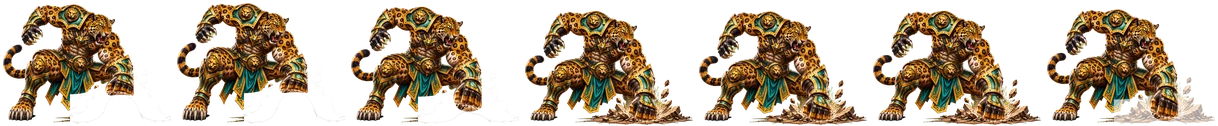
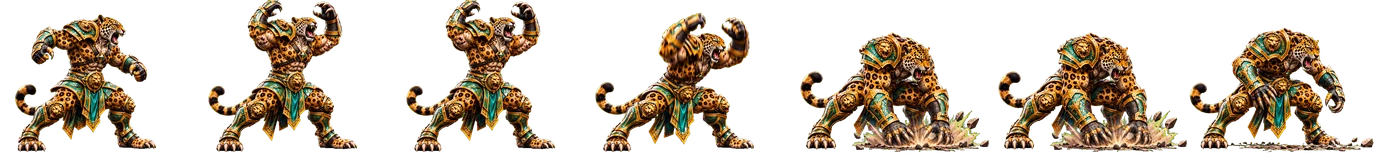
V2 preview 10.33: jaguar upgraded moves - all 15 fighters upgraded (not live)
Claude-Session: https://claude.ai/code/session_01Wp8cgZvzavvyA9CxcdgKRp

diff --git a/game/js/sprites-hd.js b/game/js/sprites-hd.js
@@ -1,2 +1,2 @@
 // High-detail fighter frames (frames-hd/), used on large/sharp screens. Same layout as SPRITES.
-const SPRITES_HD={"badger":{"s":2.0,"anims":{"idle":[16,363,425,20,211],"walk_forward":[8,301,413,70,205],"walk_back":[8,301,413,70,205],"run":[8,301,413,70,205],"block":[6,374,428,21,212],"attack_light":[8,423,419,103,208],"bite":[8,364,423,92,210],"claw_swipe":[6,423,419,103,208],"attack_heavy":[8,375,518,92,257],"uppercut":[8,423,419,103,208],"pounce":[8,364,423,92,210],"special_earth_slam":[7,375,518,92,257],"shadow_rampage":[10,423,419,103,208],"victory":[8,283,476,70,236],"jump":[7,370,409,96,203],"crouch":[4,370,409,96,203],"hit_light":[4,363,423,20,210],"hit_heavy":[6,363,423,20,210],"knockdown":[9,586,417,85,207],"knockdown_getup":[6,339,413,86,205],"defeat":[5,586,417,85,207]}},"crocodile":{"s":2.0,"anims":{"idle":[16,658,534,187,264],"walk_forward":[8,608,531,178,263],"walk_back":[8,608,531,178,263],"run":[8,608,531,178,263],"block":[6,617,527,168,261],"attack_light":[8,751,527,215,261],"bite":[8,682,533,187,264],"special_pounce":[6,751,527,215,261],"attack_heavy":[8,848,567,214,281],"uppercut":[7,848,567,214,281],"victory":[8,559,554,150,274],"jump":[7,794,476,233,235],"hit_light":[4,653,531,187,263],"hit_heavy":[6,653,531,187,263],"knockdown":[9,975,530,141,263],"knockdown_getup":[6,1340,513,355,254],"defeat":[5,975,530,141,263]}},"elephant":{"s":2.0,"anims":{"idle":[16,725,684,177,339],"walk_forward":[8,659,667,168,330],"walk_back":[8,659,667,168,330],"run":[8,659,667,168,330],"block":[6,717,696,179,344],"attack_light":[8,1010,683,214,338],"bite":[8,768,683,185,338],"special_pounce":[6,1010,683,214,338],"attack_heavy":[8,871,666,221,329],"uppercut":[7,871,666,221,329],"victory":[8,625,677,157,335],"jump":[7,764,649,183,321],"hit_light":[4,724,682,178,337],"hit_heavy":[6,724,682,178,337],"knockdown":[9,1092,696,385,345],"knockdown_getup":[6,823,663,217,328],"defeat":[5,1092,696,385,345]}},"grizzly":{"s":2.0,"anims":{"idle":[16,484,632,126,314],"walk_forward":[8,529,619,141,307],"walk_back":[8,529,619,141,307],"run":[8,529,619,141,307],"block":[6,518,624,129,310],"attack_light":[8,587,631,161,313],"bite":[8,511,630,132,313],"special_pounce":[6,587,631,161,313],"attack_heavy":[8,861,616,203,306],"uppercut":[7,861,616,203,306],"victory":[8,549,640,138,318],"jump":[7,728,597,190,296],"hit_light":[4,485,629,127,312],"hit_heavy":[6,485,629,127,312],"knockdown":[9,804,634,94,315],"knockdown_getup":[6,809,616,204,306],"defeat":[5,804,634,94,315]}},"hippo":{"s":2.0,"anims":{"idle":[16,743,653,181,323],"walk_forward":[8,458,633,110,313],"walk_back":[8,458,633,110,313],"run":[8,458,633,110,313],"block":[6,684,640,170,316],"attack_light":[8,1009,649,213,321],"bite":[8,788,652,189,323],"special_pounce":[6,1009,649,213,321],"attack_heavy":[8,571,745,156,369],"uppercut":[7,571,745,156,369],"victory":[8,486,742,120,368],"jump":[7,532,648,126,320],"hit_light":[4,747,650,184,322],"hit_heavy":[6,747,650,184,322],"knockdown":[9,1058,681,164,338],"knockdown_getup":[6,552,632,123,312],"defeat":[5,1058,681,164,338]}},"hyena":{"s":2.0,"anims":{"idle":[16,337,491,83,243],"walk_forward":[8,389,479,93,238],"walk_back":[8,389,479,93,238],"run":[8,389,479,93,238],"block":[6,400,486,100,241],"attack_light":[8,451,479,112,238],"bite":[8,355,489,87,243],"special_pounce":[6,355,489,87,243],"attack_heavy":[8,484,526,132,261],"uppercut":[7,451,479,112,238],"victory":[8,418,492,106,244],"jump":[7,482,519,121,257],"hit_light":[4,338,488,84,242],"hit_heavy":[6,338,488,84,242],"knockdown":[9,633,490,78,243],"knockdown_getup":[6,565,478,121,237],"defeat":[5,633,490,78,243]}},"jaguar":{"s":2.0,"anims":{"idle":[16,539,506,129,251],"walk_forward":[8,406,473,72,234],"walk_back":[8,406,473,72,234],"run":[8,406,473,72,234],"block":[6,354,501,25,248],"attack_light":[8,483,488,131,242],"bite":[8,558,504,129,250],"special_pounce":[6,483,488,131,242],"attack_heavy":[8,581,421,132,208],"uppercut":[7,581,421,132,208],"victory":[8,558,504,129,250],"jump":[7,354,501,25,248],"hit_light":[4,537,504,128,250],"hit_heavy":[6,537,504,128,250],"knockdown":[9,719,518,244,257],"knockdown_getup":[6,719,518,244,257],"defeat":[5,719,518,244,257]}},"leopard":{"s":2.0,"anims":{"idle":[16,471,515,22,255],"walk_forward":[8,307,485,87,240],"walk_back":[8,307,485,87,240],"run":[8,307,485,87,240],"dash":[4,307,485,87,240],"crouch":[3,428,517,102,256],"block":[6,443,509,31,253],"attack_light":[8,482,494,122,245],"bite":[8,482,514,22,255],"special_pounce":[6,482,494,122,245],"special_b":[8,482,514,22,255],"special_c":[5,482,494,122,245],"special_d":[14,482,494,122,245],"ultra_move":[5,452,555,97,276],"attack_heavy":[8,452,555,97,276],"uppercut":[7,452,555,97,276],"victory":[8,375,543,102,269],"jump":[7,428,517,102,256],"hit_light":[4,470,513,22,255],"hit_heavy":[6,470,513,22,255],"knockdown":[9,868,555,240,276],"knockdown_getup":[6,432,450,101,223],"defeat":[5,868,555,240,276]}},"lion":{"s":2.0,"anims":{"idle":[16,386,563,98,271],"walk_forward":[8,349,525,100,261],"walk_back":[8,349,525,100,261],"run":[8,349,525,100,261],"block":[6,382,412,96,204],"attack_light":[8,740,471,151,234],"bite":[8,740,471,151,234],"special_pounce":[6,740,471,151,234],"attack_heavy":[8,465,593,101,295],"uppercut":[7,465,593,101,295],"victory":[8,430,596,105,296],"jump":[7,521,546,122,271],"hit_light":[4,367,533,94,265],"hit_heavy":[6,367,533,94,265],"knockdown":[9,694,536,268,267],"knockdown_getup":[6,468,525,132,261],"defeat":[5,694,536,268,267]}},"tiger":{"s":2.0,"anims":{"idle":[16,499,538,126,267],"walk_forward":[8,508,526,125,261],"walk_back":[8,508,526,125,261],"run":[8,508,526,125,261],"block":[6,483,530,120,263],"attack_light":[8,520,524,132,260],"bite":[8,518,537,127,266],"special_pounce":[6,520,524,132,260],"attack_heavy":[8,713,548,164,272],"uppercut":[7,713,548,164,272],"victory":[8,459,544,114,270],"jump":[7,623,588,160,292],"hit_light":[4,496,536,126,266],"hit_heavy":[6,496,536,126,266],"knockdown":[9,750,543,261,270],"knockdown_getup":[6,600,526,141,261],"defeat":[5,750,543,261,270]}},"wolf":{"s":2.0,"anims":{"idle":[16,409,498,107,247],"walk_forward":[8,423,498,110,247],"walk_back":[8,423,498,110,247],"run":[8,423,498,110,247],"block":[6,404,490,104,244],"attack_light":[8,445,398,123,197],"bite":[8,447,340,119,168],"special_pounce":[6,447,340,119,168],"attack_heavy":[8,600,459,134,228],"uppercut":[7,600,459,134,228],"victory":[8,416,505,100,251],"jump":[7,563,416,136,206],"hit_light":[4,404,497,104,247],"hit_heavy":[6,404,497,104,247],"knockdown":[9,670,503,243,250],"knockdown_getup":[6,387,488,99,242],"defeat":[5,670,503,243,250]}},"majic":{"s":2.0,"anims":{"idle":[16,742,799,187,396],"walk_forward":[8,818,805,185,399],"walk_back":[8,818,805,185,399],"run":[8,818,805,185,399],"dash":[4,818,805,185,399],"crouch":[3,783,702,200,348],"block":[6,739,792,62,393],"attack_light":[8,808,714,216,354],"bite":[8,773,798,193,396],"special_pounce":[6,773,798,193,396],"special_b":[6,808,714,216,354],"special_c":[5,773,798,193,396],"special_d":[5,749,763,180,379],"ultra_move":[10,808,714,216,354],"attack_heavy":[8,749,763,180,379],"uppercut":[7,749,763,180,379],"victory":[8,823,812,205,403],"jump":[7,783,702,200,348],"hit_light":[4,746,795,190,395],"hit_heavy":[6,746,795,190,395],"knockdown":[9,1082,819,398,407],"knockdown_getup":[6,793,780,206,387],"defeat":[5,1082,819,398,407]}},"snake":{"s":2.0,"anims":{"idle":[16,498,552,122,274],"walk_forward":[8,525,525,147,261],"walk_back":[8,525,525,147,261],"run":[8,525,525,147,261],"crouch":[3,533,495,126,245],"block":[6,469,547,25,272],"attack_light":[8,532,537,123,267],"bite":[8,498,551,122,274],"special_pounce":[6,498,551,122,274],"special_b":[6,532,537,123,267],"special_c":[5,498,551,122,274],"special_d":[5,600,546,143,271],"ultra_move":[10,532,537,123,267],"attack_heavy":[8,600,546,143,271],"uppercut":[7,600,546,143,271],"victory":[8,412,570,105,283],"jump":[7,533,495,126,245],"hit_light":[4,498,550,122,273],"hit_heavy":[6,498,550,122,273],"knockdown":[9,778,548,271,272],"knockdown_getup":[6,609,538,125,267],"defeat":[5,778,548,271,272]}},"eagle":{"s":2.0,"anims":{"idle":[16,486,526,121,261],"walk_forward":[8,501,514,100,255],"walk_back":[8,501,514,100,255],"run":[8,501,514,100,255],"crouch":[3,681,479,179,237],"block":[6,483,520,108,258],"attack_light":[8,500,526,124,261],"bite":[8,502,525,125,260],"special_pounce":[6,502,525,125,260],"special_b":[6,500,526,124,261],"ultra_move":[10,500,526,124,261],"attack_heavy":[8,603,494,151,245],"uppercut":[7,603,494,151,245],"victory":[8,550,541,139,269],"jump":[7,681,479,179,237],"hit_light":[4,487,522,122,259],"hit_heavy":[6,487,522,122,259],"knockdown":[9,692,536,255,266],"knockdown_getup":[6,480,513,99,255],"defeat":[5,692,536,255,266]}},"stag":{"s":2.0,"anims":{"idle":[16,341,572,85,283],"walk_forward":[8,450,569,111,282],"walk_back":[8,450,569,111,282],"run":[8,450,569,111,282],"crouch":[3,543,734,154,365],"block":[6,453,553,113,274],"attack_light":[8,539,540,118,268],"bite":[8,358,571,85,283],"special_pounce":[6,358,571,85,283],"special_b":[6,539,540,118,268],"special_c":[5,358,571,85,283],"special_d":[5,453,612,113,304],"ultra_move":[10,539,540,118,268],"attack_heavy":[8,453,612,113,304],"uppercut":[7,453,612,113,304],"victory":[8,512,565,127,280],"jump":[7,543,734,154,365],"hit_light":[4,341,570,85,282],"hit_heavy":[6,341,570,85,282],"knockdown":[9,734,584,285,290],"knockdown_getup":[6,507,558,164,277],"defeat":[5,734,584,285,290]}}};
+const SPRITES_HD={"badger":{"s":2.0,"anims":{"idle":[16,363,425,20,211],"walk_forward":[8,301,413,70,205],"walk_back":[8,301,413,70,205],"run":[8,301,413,70,205],"block":[6,374,428,21,212],"attack_light":[8,423,419,103,208],"bite":[8,364,423,92,210],"claw_swipe":[6,423,419,103,208],"attack_heavy":[8,375,518,92,257],"uppercut":[8,423,419,103,208],"pounce":[8,364,423,92,210],"special_earth_slam":[7,375,518,92,257],"shadow_rampage":[10,423,419,103,208],"victory":[8,283,476,70,236],"jump":[7,370,409,96,203],"crouch":[4,370,409,96,203],"hit_light":[4,363,423,20,210],"hit_heavy":[6,363,423,20,210],"knockdown":[9,586,417,85,207],"knockdown_getup":[6,339,413,86,205],"defeat":[5,586,417,85,207]}},"crocodile":{"s":2.0,"anims":{"idle":[16,658,534,187,264],"walk_forward":[8,608,531,178,263],"walk_back":[8,608,531,178,263],"run":[8,608,531,178,263],"block":[6,617,527,168,261],"attack_light":[8,751,527,215,261],"bite":[8,682,533,187,264],"special_pounce":[6,751,527,215,261],"attack_heavy":[8,848,567,214,281],"uppercut":[7,848,567,214,281],"victory":[8,559,554,150,274],"jump":[7,794,476,233,235],"hit_light":[4,653,531,187,263],"hit_heavy":[6,653,531,187,263],"knockdown":[9,975,530,141,263],"knockdown_getup":[6,1340,513,355,254],"defeat":[5,975,530,141,263]}},"elephant":{"s":2.0,"anims":{"idle":[16,725,684,177,339],"walk_forward":[8,659,667,168,330],"walk_back":[8,659,667,168,330],"run":[8,659,667,168,330],"block":[6,717,696,179,344],"attack_light":[8,1010,683,214,338],"bite":[8,768,683,185,338],"special_pounce":[6,1010,683,214,338],"attack_heavy":[8,871,666,221,329],"uppercut":[7,871,666,221,329],"victory":[8,625,677,157,335],"jump":[7,764,649,183,321],"hit_light":[4,724,682,178,337],"hit_heavy":[6,724,682,178,337],"knockdown":[9,1092,696,385,345],"knockdown_getup":[6,823,663,217,328],"defeat":[5,1092,696,385,345]}},"grizzly":{"s":2.0,"anims":{"idle":[16,484,632,126,314],"walk_forward":[8,529,619,141,307],"walk_back":[8,529,619,141,307],"run":[8,529,619,141,307],"block":[6,518,624,129,310],"attack_light":[8,587,631,161,313],"bite":[8,511,630,132,313],"special_pounce":[6,587,631,161,313],"attack_heavy":[8,861,616,203,306],"uppercut":[7,861,616,203,306],"victory":[8,549,640,138,318],"jump":[7,728,597,190,296],"hit_light":[4,485,629,127,312],"hit_heavy":[6,485,629,127,312],"knockdown":[9,804,634,94,315],"knockdown_getup":[6,809,616,204,306],"defeat":[5,804,634,94,315]}},"hippo":{"s":2.0,"anims":{"idle":[16,743,653,181,323],"walk_forward":[8,458,633,110,313],"walk_back":[8,458,633,110,313],"run":[8,458,633,110,313],"block":[6,684,640,170,316],"attack_light":[8,1009,649,213,321],"bite":[8,788,652,189,323],"special_pounce":[6,1009,649,213,321],"attack_heavy":[8,571,745,156,369],"uppercut":[7,571,745,156,369],"victory":[8,486,742,120,368],"jump":[7,532,648,126,320],"hit_light":[4,747,650,184,322],"hit_heavy":[6,747,650,184,322],"knockdown":[9,1058,681,164,338],"knockdown_getup":[6,552,632,123,312],"defeat":[5,1058,681,164,338]}},"hyena":{"s":2.0,"anims":{"idle":[16,337,491,83,243],"walk_forward":[8,389,479,93,238],"walk_back":[8,389,479,93,238],"run":[8,389,479,93,238],"block":[6,400,486,100,241],"attack_light":[8,451,479,112,238],"bite":[8,355,489,87,243],"special_pounce":[6,355,489,87,243],"attack_heavy":[8,484,526,132,261],"uppercut":[7,451,479,112,238],"victory":[8,418,492,106,244],"jump":[7,482,519,121,257],"hit_light":[4,338,488,84,242],"hit_heavy":[6,338,488,84,242],"knockdown":[9,633,490,78,243],"knockdown_getup":[6,565,478,121,237],"defeat":[5,633,490,78,243]}},"jaguar":{"s":2.0,"anims":{"idle":[16,539,506,129,251],"walk_forward":[8,441,505,115,250],"walk_back":[8,441,505,115,250],"run":[8,441,505,115,250],"block":[6,354,501,25,248],"attack_light":[8,483,488,131,242],"bite":[8,558,504,129,250],"special_pounce":[6,483,488,131,242],"attack_heavy":[8,661,511,150,254],"uppercut":[7,661,511,150,254],"victory":[8,445,519,112,257],"jump":[7,657,453,164,224],"hit_light":[4,537,504,128,250],"hit_heavy":[6,537,504,128,250],"knockdown":[9,719,518,244,257],"knockdown_getup":[6,614,493,170,245],"defeat":[5,719,518,244,257]}},"leopard":{"s":2.0,"anims":{"idle":[16,471,515,22,255],"walk_forward":[8,307,485,87,240],"walk_back":[8,307,485,87,240],"run":[8,307,485,87,240],"dash":[4,307,485,87,240],"crouch":[3,428,517,102,256],"block":[6,443,509,31,253],"attack_light":[8,482,494,122,245],"bite":[8,482,514,22,255],"special_pounce":[6,482,494,122,245],"special_b":[8,482,514,22,255],"special_c":[5,482,494,122,245],"special_d":[14,482,494,122,245],"ultra_move":[5,452,555,97,276],"attack_heavy":[8,452,555,97,276],"uppercut":[7,452,555,97,276],"victory":[8,375,543,102,269],"jump":[7,428,517,102,256],"hit_light":[4,470,513,22,255],"hit_heavy":[6,470,513,22,255],"knockdown":[9,868,555,240,276],"knockdown_getup":[6,432,450,101,223],"defeat":[5,868,555,240,276]}},"lion":{"s":2.0,"anims":{"idle":[16,386,563,98,271],"walk_forward":[8,349,525,100,261],"walk_back":[8,349,525,100,261],"run":[8,349,525,100,261],"block":[6,382,412,96,204],"attack_light":[8,740,471,151,234],"bite":[8,740,471,151,234],"special_pounce":[6,740,471,151,234],"attack_heavy":[8,465,593,101,295],"uppercut":[7,465,593,101,295],"victory":[8,430,596,105,296],"jump":[7,521,546,122,271],"hit_light":[4,367,533,94,265],"hit_heavy":[6,367,533,94,265],"knockdown":[9,694,536,268,267],"knockdown_getup":[6,468,525,132,261],"defeat":[5,694,536,268,267]}},"tiger":{"s":2.0,"anims":{"idle":[16,499,538,126,267],"walk_forward":[8,508,526,125,261],"walk_back":[8,508,526,125,261],"run":[8,508,526,125,261],"block":[6,483,530,120,263],"attack_light":[8,520,524,132,260],"bite":[8,518,537,127,266],"special_pounce":[6,520,524,132,260],"attack_heavy":[8,713,548,164,272],"uppercut":[7,713,548,164,272],"victory":[8,459,544,114,270],"jump":[7,623,588,160,292],"hit_light":[4,496,536,126,266],"hit_heavy":[6,496,536,126,266],"knockdown":[9,750,543,261,270],"knockdown_getup":[6,600,526,141,261],"defeat":[5,750,543,261,270]}},"wolf":{"s":2.0,"anims":{"idle":[16,409,498,107,247],"walk_forward":[8,423,498,110,247],"walk_back":[8,423,498,110,247],"run":[8,423,498,110,247],"block":[6,404,490,104,244],"attack_light":[8,445,398,123,197],"bite":[8,447,340,119,168],"special_pounce":[6,447,340,119,168],"attack_heavy":[8,600,459,134,228],"uppercut":[7,600,459,134,228],"victory":[8,416,505,100,251],"jump":[7,563,416,136,206],"hit_light":[4,404,497,104,247],"hit_heavy":[6,404,497,104,247],"knockdown":[9,670,503,243,250],"knockdown_getup":[6,387,488,99,242],"defeat":[5,670,503,243,250]}},"majic":{"s":2.0,"anims":{"idle":[16,742,799,187,396],"walk_forward":[8,818,805,185,399],"walk_back":[8,818,805,185,399],"run":[8,818,805,185,399],"dash":[4,818,805,185,399],"crouch":[3,783,702,200,348],"block":[6,739,792,62,393],"attack_light":[8,808,714,216,354],"bite":[8,773,798,193,396],"special_pounce":[6,773,798,193,396],"special_b":[6,808,714,216,354],"special_c":[5,773,798,193,396],"special_d":[5,749,763,180,379],"ultra_move":[10,808,714,216,354],"attack_heavy":[8,749,763,180,379],"uppercut":[7,749,763,180,379],"victory":[8,823,812,205,403],"jump":[7,783,702,200,348],"hit_light":[4,746,795,190,395],"hit_heavy":[6,746,795,190,395],"knockdown":[9,1082,819,398,407],"knockdown_getup":[6,793,780,206,387],"defeat":[5,1082,819,398,407]}},"snake":{"s":2.0,"anims":{"idle":[16,498,552,122,274],"walk_forward":[8,525,525,147,261],"walk_back":[8,525,525,147,261],"run":[8,525,525,147,261],"crouch":[3,533,495,126,245],"block":[6,469,547,25,272],"attack_light":[8,532,537,123,267],"bite":[8,498,551,122,274],"special_pounce":[6,498,551,122,274],"special_b":[6,532,537,123,267],"special_c":[5,498,551,122,274],"special_d":[5,600,546,143,271],"ultra_move":[10,532,537,123,267],"attack_heavy":[8,600,546,143,271],"uppercut":[7,600,546,143,271],"victory":[8,412,570,105,283],"jump":[7,533,495,126,245],"hit_light":[4,498,550,122,273],"hit_heavy":[6,498,550,122,273],"knockdown":[9,778,548,271,272],"knockdown_getup":[6,609,538,125,267],"defeat":[5,778,548,271,272]}},"eagle":{"s":2.0,"anims":{"idle":[16,486,526,121,261],"walk_forward":[8,501,514,100,255],"walk_back":[8,501,514,100,255],"run":[8,501,514,100,255],"crouch":[3,681,479,179,237],"block":[6,483,520,108,258],"attack_light":[8,500,526,124,261],"bite":[8,502,525,125,260],"special_pounce":[6,502,525,125,260],"special_b":[6,500,526,124,261],"ultra_move":[10,500,526,124,261],"attack_heavy":[8,603,494,151,245],"uppercut":[7,603,494,151,245],"victory":[8,550,541,139,269],"jump":[7,681,479,179,237],"hit_light":[4,487,522,122,259],"hit_heavy":[6,487,522,122,259],"knockdown":[9,692,536,255,266],"knockdown_getup":[6,480,513,99,255],"defeat":[5,692,536,255,266]}},"stag":{"s":2.0,"anims":{"idle":[16,341,572,85,283],"walk_forward":[8,450,569,111,282],"walk_back":[8,450,569,111,282],"run":[8,450,569,111,282],"crouch":[3,543,734,154,365],"block":[6,453,553,113,274],"attack_light":[8,539,540,118,268],"bite":[8,358,571,85,283],"special_pounce":[6,358,571,85,283],"special_b":[6,539,540,118,268],"special_c":[5,358,571,85,283],"special_d":[5,453,612,113,304],"ultra_move":[10,539,540,118,268],"attack_heavy":[8,453,612,113,304],"uppercut":[7,453,612,113,304],"victory":[8,512,565,127,280],"jump":[7,543,734,154,365],"hit_light":[4,341,570,85,282],"hit_heavy":[6,341,570,85,282],"knockdown":[9,734,584,285,290],"knockdown_getup":[6,507,558,164,277],"defeat":[5,734,584,285,290]}}};

diff --git a/game/js/game.js b/game/js/game.js
@@ -1691,9 +1691,9 @@ const SPRITES={
  hyena:{s:0.6,anims:{"idle":[16,101,147,83,243],"walk_forward":[8,117,144,93,238],"walk_back":[8,117,144,93,238],"run":[8,117,144,93,238],"block":[6,120,146,100,241],"attack_light":[8,135,144,112,238],"bite":[8,107,147,87,243],"special_pounce":[6,107,147,87,243],"attack_heavy":[8,145,158,132,261],"uppercut":[7,135,144,112,238],"victory":[8,125,148,106,244],"jump":[7,144,156,121,257],"hit_light":[4,101,146,84,242],"hit_heavy":[6,101,146,84,242],"knockdown":[9,190,147,78,243],"knockdown_getup":[6,169,143,121,237],"defeat":[5,190,147,78,243]},
   double:['attack_heavy','attack_light'],special:'special_pounce',shadow:null,ultra:['bite','attack_heavy','uppercut','attack_light'],
   fall:['knockdown',[0,1,2,3,4,5]],getup:['knockdown_getup',[0,1,2,3,4,5]],ko:['knockdown',8]},
- jaguar:{s:0.6,anims:{"idle":[16,162,152,129,251],"walk_forward":[8,122,142,72,234],"walk_back":[8,122,142,72,234],"run":[8,122,142,72,234],"block":[6,106,150,25,248],"attack_light":[8,145,147,131,242],"bite":[8,168,151,129,250],"special_pounce":[6,145,147,131,242],"attack_heavy":[8,174,126,132,208],"uppercut":[7,174,126,132,208],"victory":[8,168,151,129,250],"jump":[7,106,150,25,248],"hit_light":[4,161,151,128,250],"hit_heavy":[6,161,151,128,250],"knockdown":[9,216,155,244,257],"knockdown_getup":[6,216,155,244,257],"defeat":[5,216,155,244,257]},
+ jaguar:{s:0.6,anims:{"idle":[16,162,152,129,251],"walk_forward":[8,132,151,115,250],"walk_back":[8,132,151,115,250],"run":[8,132,151,115,250],"block":[6,106,150,25,248],"attack_light":[8,145,147,131,242],"bite":[8,168,151,129,250],"special_pounce":[6,145,147,131,242],"attack_heavy":[8,198,153,150,254],"uppercut":[7,198,153,150,254],"victory":[8,133,156,112,257],"jump":[7,197,136,164,224],"hit_light":[4,161,151,128,250],"hit_heavy":[6,161,151,128,250],"knockdown":[9,216,155,244,257],"knockdown_getup":[6,184,148,170,245],"defeat":[5,216,155,244,257]},
   double:['attack_heavy','bite'],special:'special_pounce',shadow:null,ultra:['attack_heavy','bite','uppercut','attack_light'],
-  fall:['knockdown',[0,1,2,3,4,5]],getup:['knockdown',[7,3,2,1,0]],ko:['knockdown',8]},
+  fall:['knockdown',[0,1,2,3,4,5]],getup:['knockdown_getup',[0,1,2,3,4,5]],ko:['knockdown',8]},
  leopard:{s:0.6,anims:{"idle":[16,141,154,22,255],"walk_forward":[8,92,145,87,240],"walk_back":[8,92,145,87,240],"run":[8,92,145,87,240],"dash":[4,92,145,87,240],"crouch":[3,128,155,102,256],"block":[6,133,153,31,253],"attack_light":[8,144,148,122,245],"bite":[8,144,154,22,255],"special_pounce":[6,144,148,122,245],"special_b":[8,144,154,22,255],"special_c":[5,144,148,122,245],"special_d":[14,144,148,122,245],"ultra_move":[5,136,167,97,276],"attack_heavy":[8,136,167,97,276],"uppercut":[7,136,167,97,276],"victory":[8,113,163,102,269],"jump":[7,128,155,102,256],"hit_light":[4,141,154,22,255],"hit_heavy":[6,141,154,22,255],"knockdown":[9,260,167,240,276],"knockdown_getup":[6,130,135,101,223],"defeat":[5,260,167,240,276]},
   double:['attack_heavy','bite'],special:'special_pounce',shadow:'special_b',ultra:['ultra_move','special_d','attack_heavy','uppercut'],
   fall:['knockdown',[0,1,2,3,4,5]],getup:['knockdown_getup',[0,1,2,3,4,5]],ko:['knockdown',8]},
@@ -1707,11 +1707,11 @@ const SPRITES={
   double:['attack_heavy','attack_light'],special:'special_pounce',shadow:null,ultra:['attack_light','attack_heavy','uppercut','bite'],
   fall:['knockdown',[0,1,2,3,4,5]],getup:['knockdown_getup',[0,1,2,3,4,5]],ko:['knockdown',8]}
 };
-const spriteImg={};for(const id in SPRITES){spriteImg[id]={};for(const k in SPRITES[id].anims){const im=new Image();im.src='assets/characters/'+id+'/frames/'+k+'.webp?v=10.32';spriteImg[id][k]=im}}
+const spriteImg={};for(const id in SPRITES){spriteImg[id]={};for(const k in SPRITES[id].anims){const im=new Image();im.src='assets/characters/'+id+'/frames/'+k+'.webp?v=10.33';spriteImg[id][k]=im}}
 // High-detail art for big, sharp screens (laptops, TVs, 4K): loaded per fight, only for the two fighters in it.
 const HD=typeof SPRITES_HD!=='undefined'?SPRITES_HD:{},spriteHD={};
 function wantHD(){const r=$('game-canvas').getBoundingClientRect(),d=Math.min(window.devicePixelRatio||1,3);return r.height*d>=560}
-function loadHD(id){if(!HD[id]||spriteHD[id])return;spriteHD[id]={};for(const k in HD[id].anims){const im=new Image();im.decoding='async';im.src='assets/characters/'+id+'/frames-hd/'+k+'.webp?v=10.32';spriteHD[id][k]=im}}
+function loadHD(id){if(!HD[id]||spriteHD[id])return;spriteHD[id]={};for(const k in HD[id].anims){const im=new Image();im.decoding='async';im.src='assets/characters/'+id+'/frames-hd/'+k+'.webp?v=10.33';spriteHD[id][k]=im}}
 const c=$('game-canvas').getContext('2d');
 function draw(){
  const canvas=$('game-canvas'),rect=canvas.getBoundingClientRect(),dpr=Math.min(window.devicePixelRatio||1,3),w=1100,h=520;

diff --git a/game/index.html b/game/index.html
@@ -17,7 +17,7 @@
   s.addEventListener('pointerdown',go);addEventListener('keydown',function(e){if(!done){go(e)}},{capture:true,once:true});(function pad(){if(done)return;var g=navigator.getGamepads?[].slice.call(navigator.getGamepads()):[];if(g.some(function(x){return x&&x.buttons.some(function(b){return b.pressed})})){go();return}requestAnimationFrame(pad)})()})();</script>
   <div id="backdrop" aria-hidden="true"><div class="bd-img bd-a"></div><div class="bd-img bd-b"></div><div class="bd-rays"></div><div class="bd-vignette"></div><canvas id="bd-embers"></canvas></div>
   <main id="app">
-    <header class="topbar"><img class="brand-crown" src="assets/ui/crown.webp" alt=""><div><div class="eyebrow">A LEGACY UNLEASHED</div><h1>KING OF THE JUNGLE</h1></div><div class="build-tag">V2 PREVIEW · 10.32 (not live)</div></header>
+    <header class="topbar"><img class="brand-crown" src="assets/ui/crown.webp" alt=""><div><div class="eyebrow">A LEGACY UNLEASHED</div><h1>KING OF THE JUNGLE</h1></div><div class="build-tag">V2 PREVIEW · 10.33 (not live)</div></header>
     <section id="menu" class="screen cover">
       <div class="cover-bg"></div><div class="cover-rays"></div><canvas id="embers" class="cover-embers"></canvas><div class="cover-vignette"></div>
       <div class="cover-hero"><div class="hero-glow"></div><img src="assets/characters/lion/lion-hero.webp" alt="The Lion, King of the Jungle"></div>
@@ -42,7 +42,7 @@
         </div>
       </div>
       <div class="cover-roster"><span>11 FIGHTERS · ONE THRONE</span><div id="cover-faces"></div></div>
-      <div class="cover-meta"><span id="cover-build">V2 PREVIEW · 10.32 (not live)</span><span>© King of the Jungle · J. Hardy</span></div>
+      <div class="cover-meta"><span id="cover-build">V2 PREVIEW · 10.33 (not live)</span><span>© King of the Jungle · J. Hardy</span></div>
     </section>
     <section id="select" class="screen hidden v2sel">
       <div class="select-title"><img class="st-crown" src="assets/ui/crown.webp" alt=""><h2 class="st-main">KING <small>OF THE</small> JUNGLE</h2><p class="st-sub">CHARACTER SELECT</p><p id="select-instruction">Player 1: choose a fighter</p></div>
@@ -114,7 +114,7 @@
     </section>
     <footer><span>© KING OF THE JUNGLE</span><span>Created and Developed by J. Hardy</span></footer>
   </main>
-  <script src="js/roster.js?v=7.1"></script><script src="js/story.js?v=7.7"></script><script src="js/sprites-hd.js?v=10.32"></script><script src="js/audio.js?v=9.12"></script><script src="js/hitboxes.js?v=8.0"></script><script src="js/net.js?v=7.1"></script><script src="js/game.js?v=10.32"></script>
+  <script src="js/roster.js?v=7.1"></script><script src="js/story.js?v=7.7"></script><script src="js/sprites-hd.js?v=10.33"></script><script src="js/audio.js?v=9.12"></script><script src="js/hitboxes.js?v=8.0"></script><script src="js/net.js?v=7.1"></script><script src="js/game.js?v=10.33"></script>
 <script>(function(){var last=0;
 document.addEventListener('gesturestart',function(e){e.preventDefault()},{passive:false});
 document.addEventListener('gesturechange',function(e){e.preventDefault()},{passive:false});
